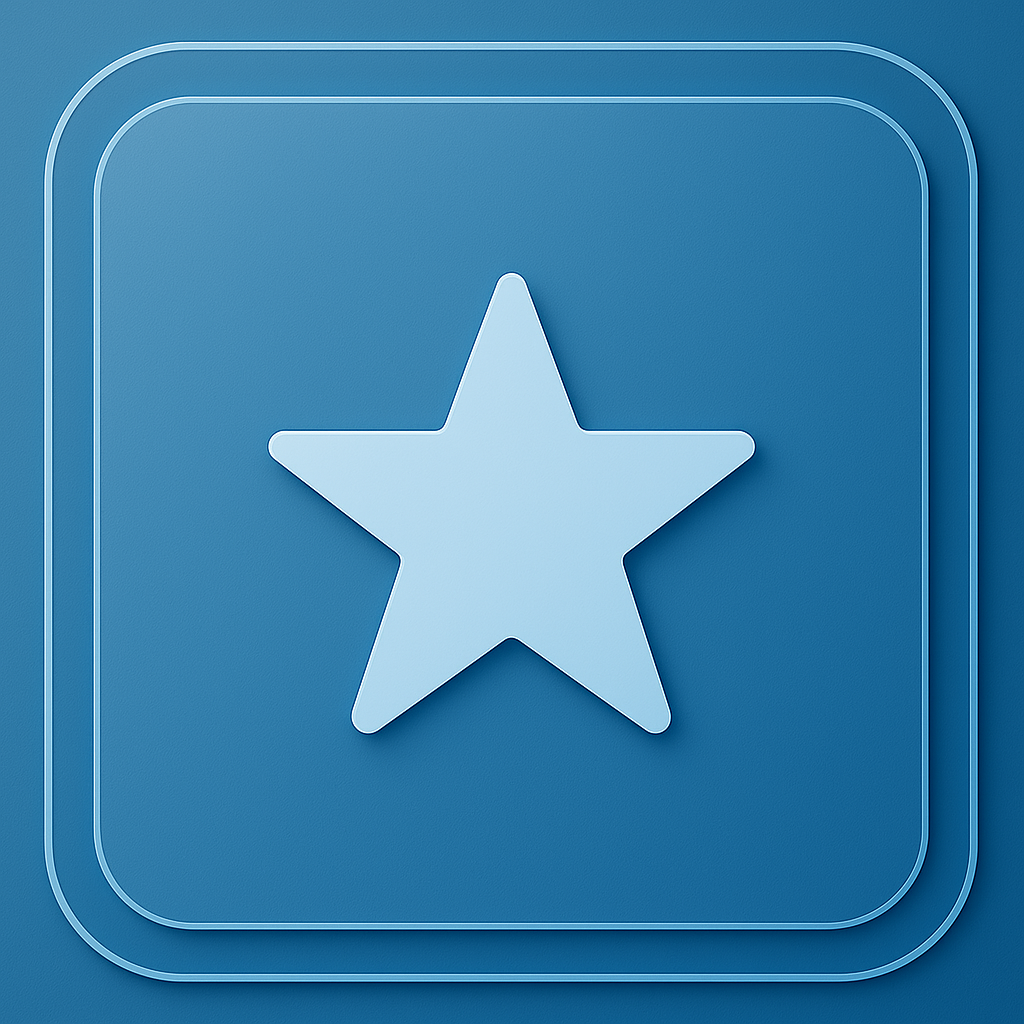
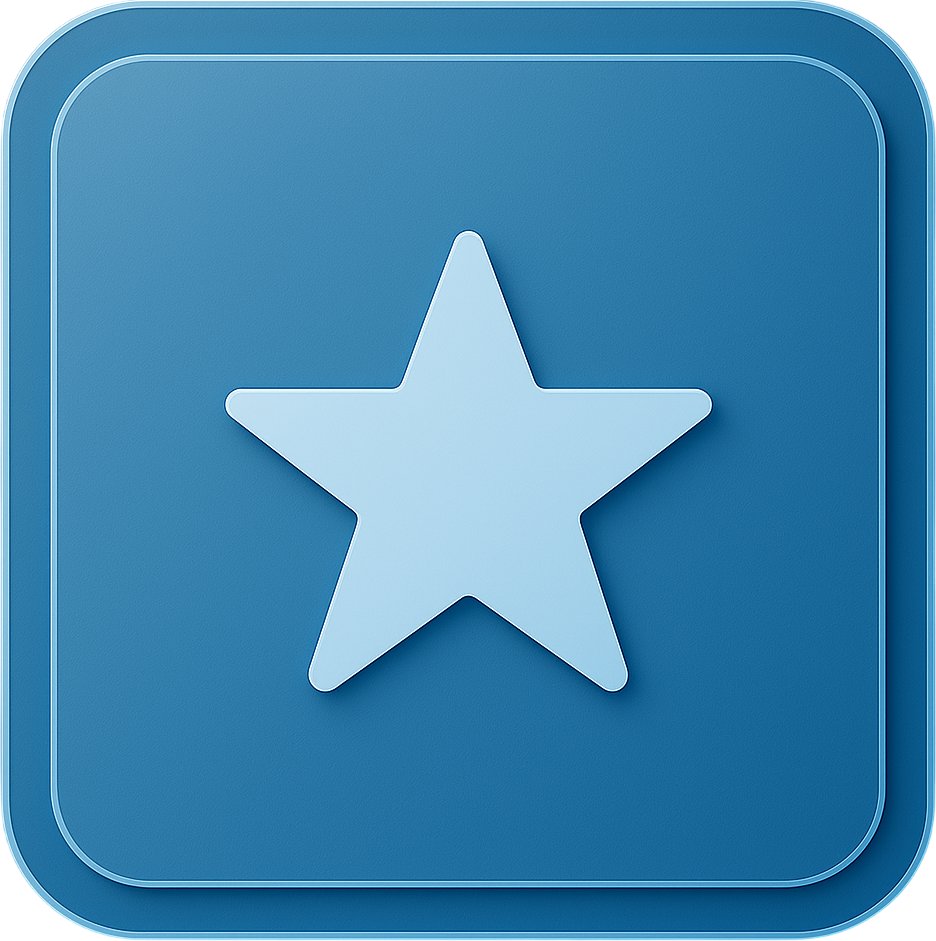
Add files via upload

diff --git a/index.html b/index.html
@@ -38,7 +38,7 @@
                 Productos
             </h2>
                 <div class="producto_contenido">
-                    <img class="icono" src="img/Ico_C.png" alt="Icono Collection">
+                    <img class="icono" src="img/Ico_Collection.png" alt="Icono Collection">
                     <span>Collection (En desarrollo)</span>
             </div>
         </section>
@@ -51,7 +51,7 @@
                 <section class="feedback_contenido">
                     <div class="feedback">
                         <span class="feedback_izq desktop_only">
-                            <img class="img_feedback" src="img/img_feedback.png" alt="imagen_feedback">
+                            <img class="img_feedback" src="img/img_Feedback.png" alt="imagen_feedback">
                         </span>
                         <span class="feedback_der desktop_only">
                             <p>Ayúdanos a mejorar.</p>

diff --git a/css/style.css b/css/style.css
@@ -125,8 +125,8 @@ section {
 }
 
 .icono {
-    height: 7rem;
-    width: 7rem;
+    height: 9rem;
+    width: 9rem;
     margin: 2rem;
     border-radius: 1rem;
 }
@@ -337,7 +337,6 @@ section {
 .img_feedback {
     width: 20rem;
     height: auto;
-    border-radius: 2rem;
     margin-left: 2rem;
     margin-right: 5rem;
 }
@@ -372,8 +371,8 @@ section {
     }
 
     .icono {
-        width: 5rem;
-        height: 5rem;
+        width: 6rem;
+        height: 6rem;
     }
 
     .nosotros_imagen {
@@ -476,7 +475,6 @@ section {
         width: 25%;
         height: 25%;
         margin: 3%;
-        border-radius: 15%;
     }
 
     .movil_only div {
